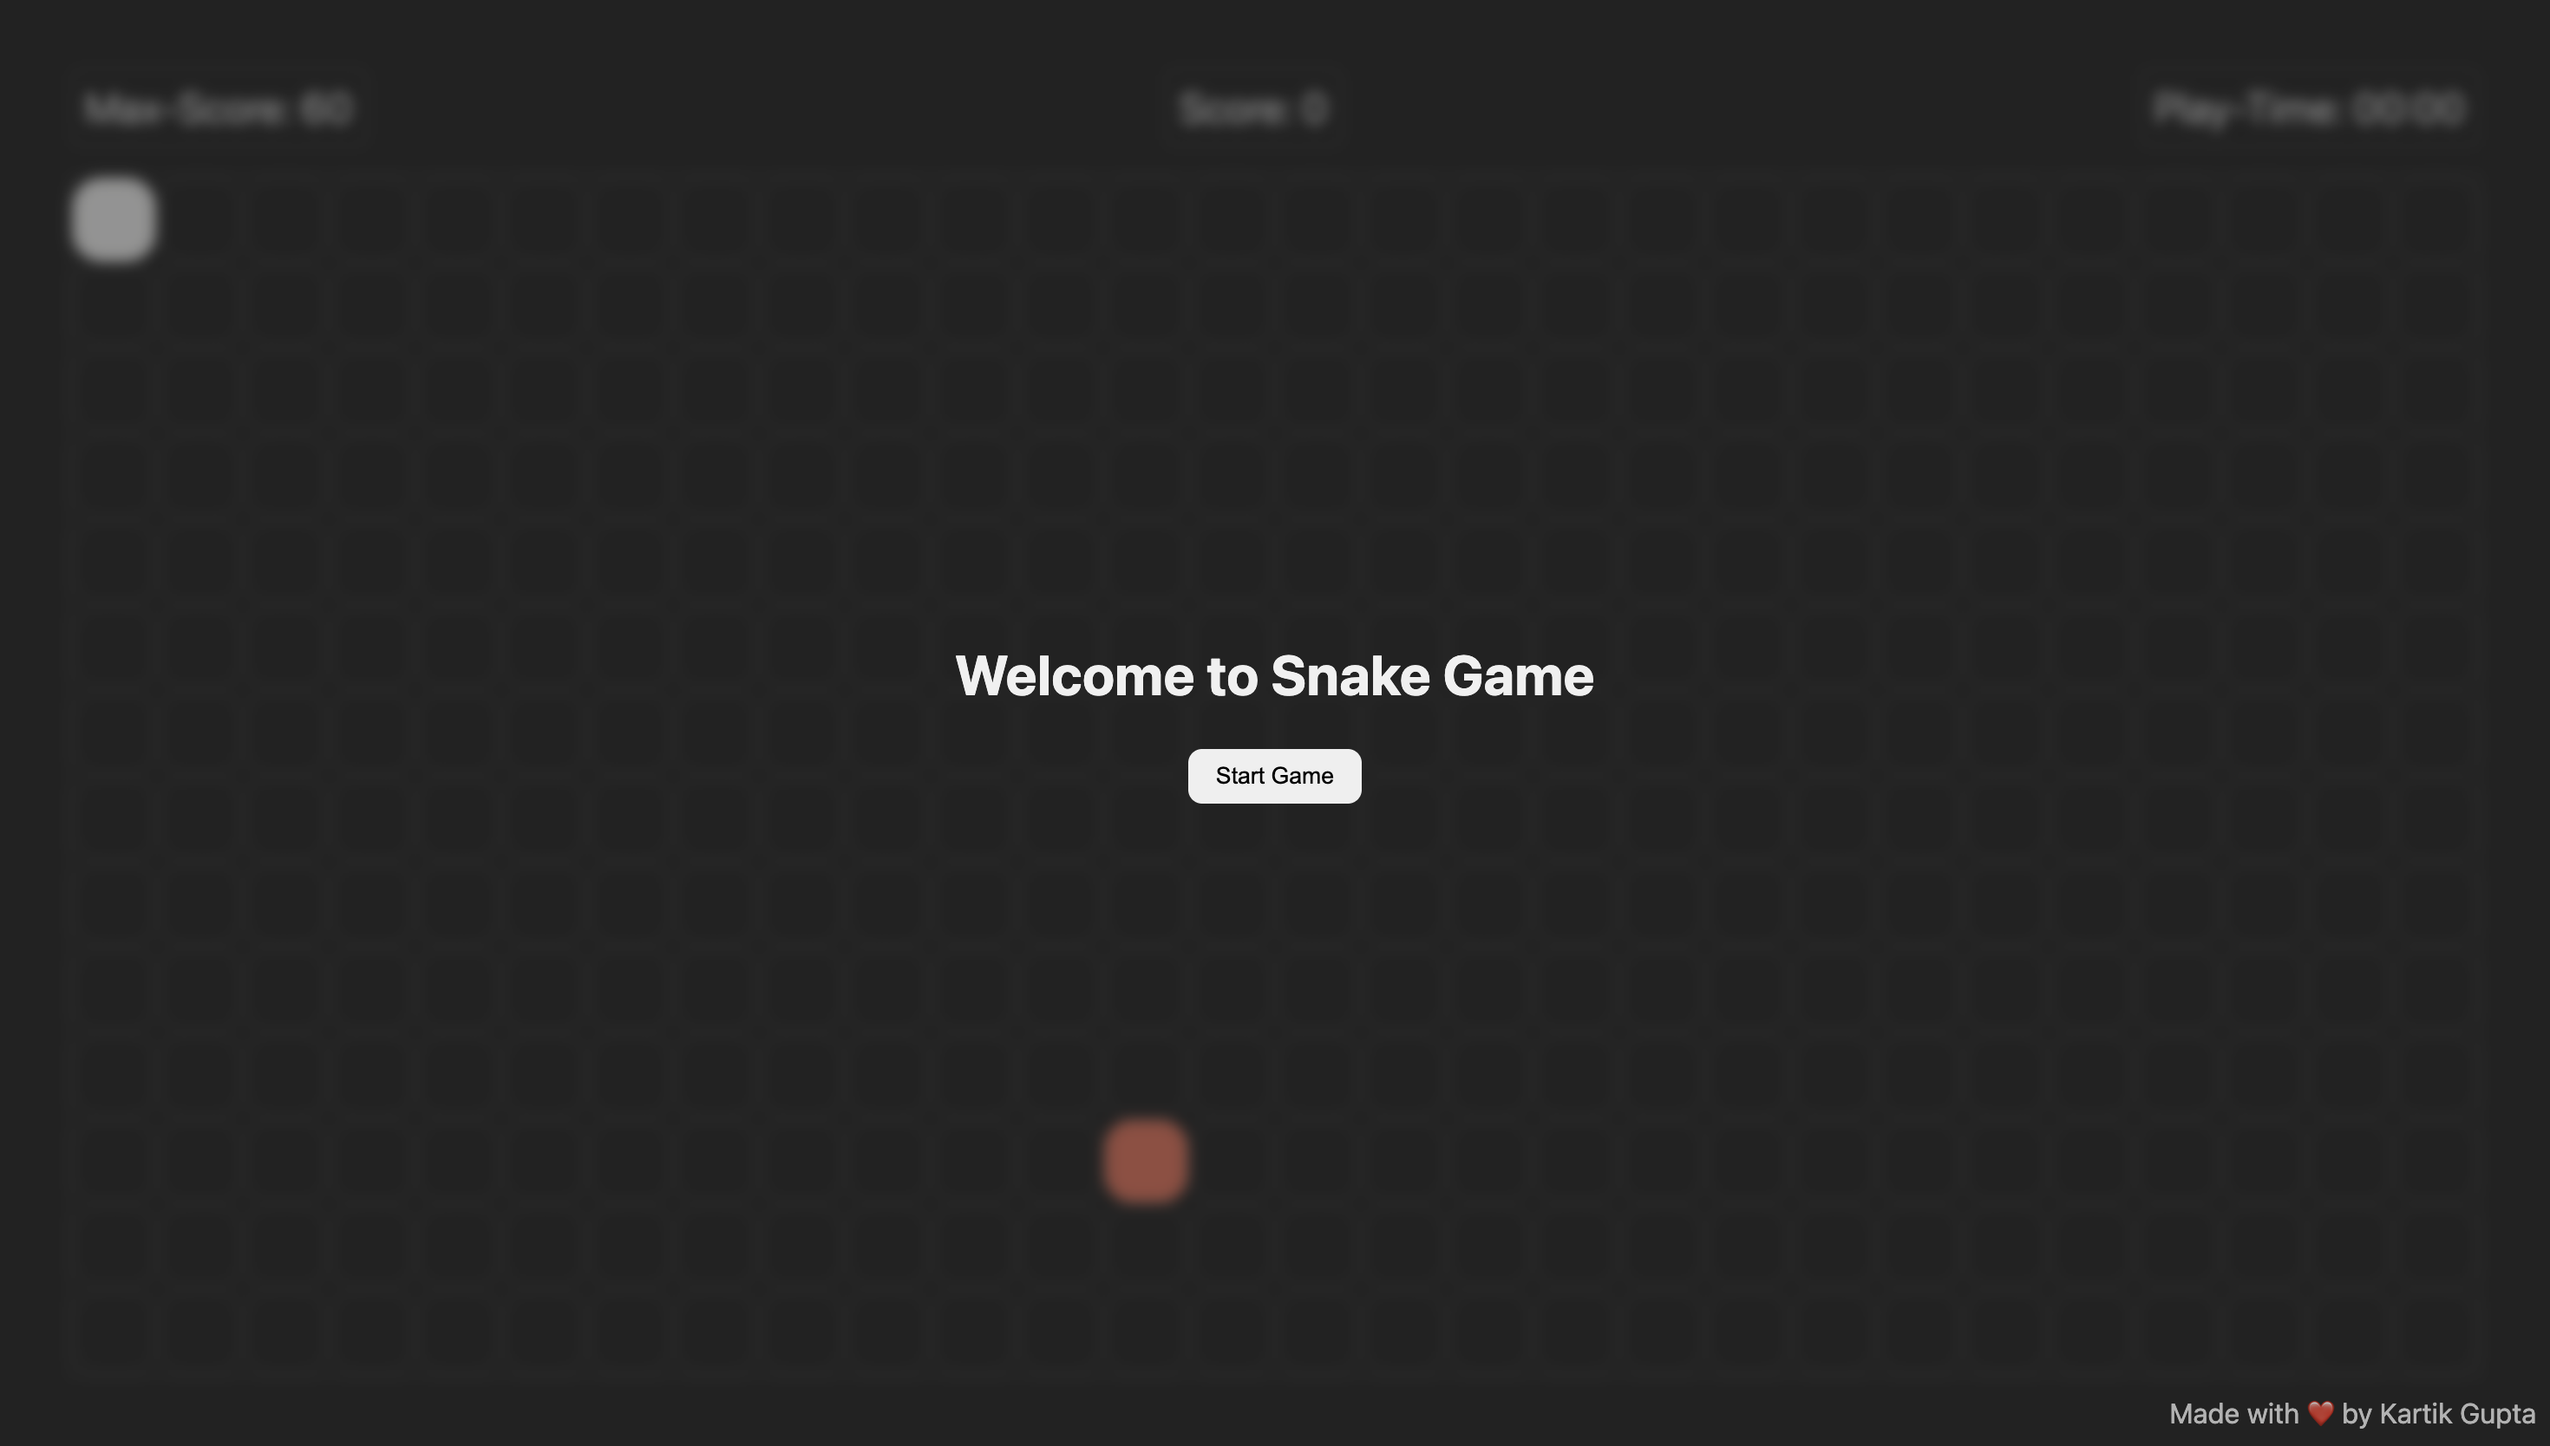
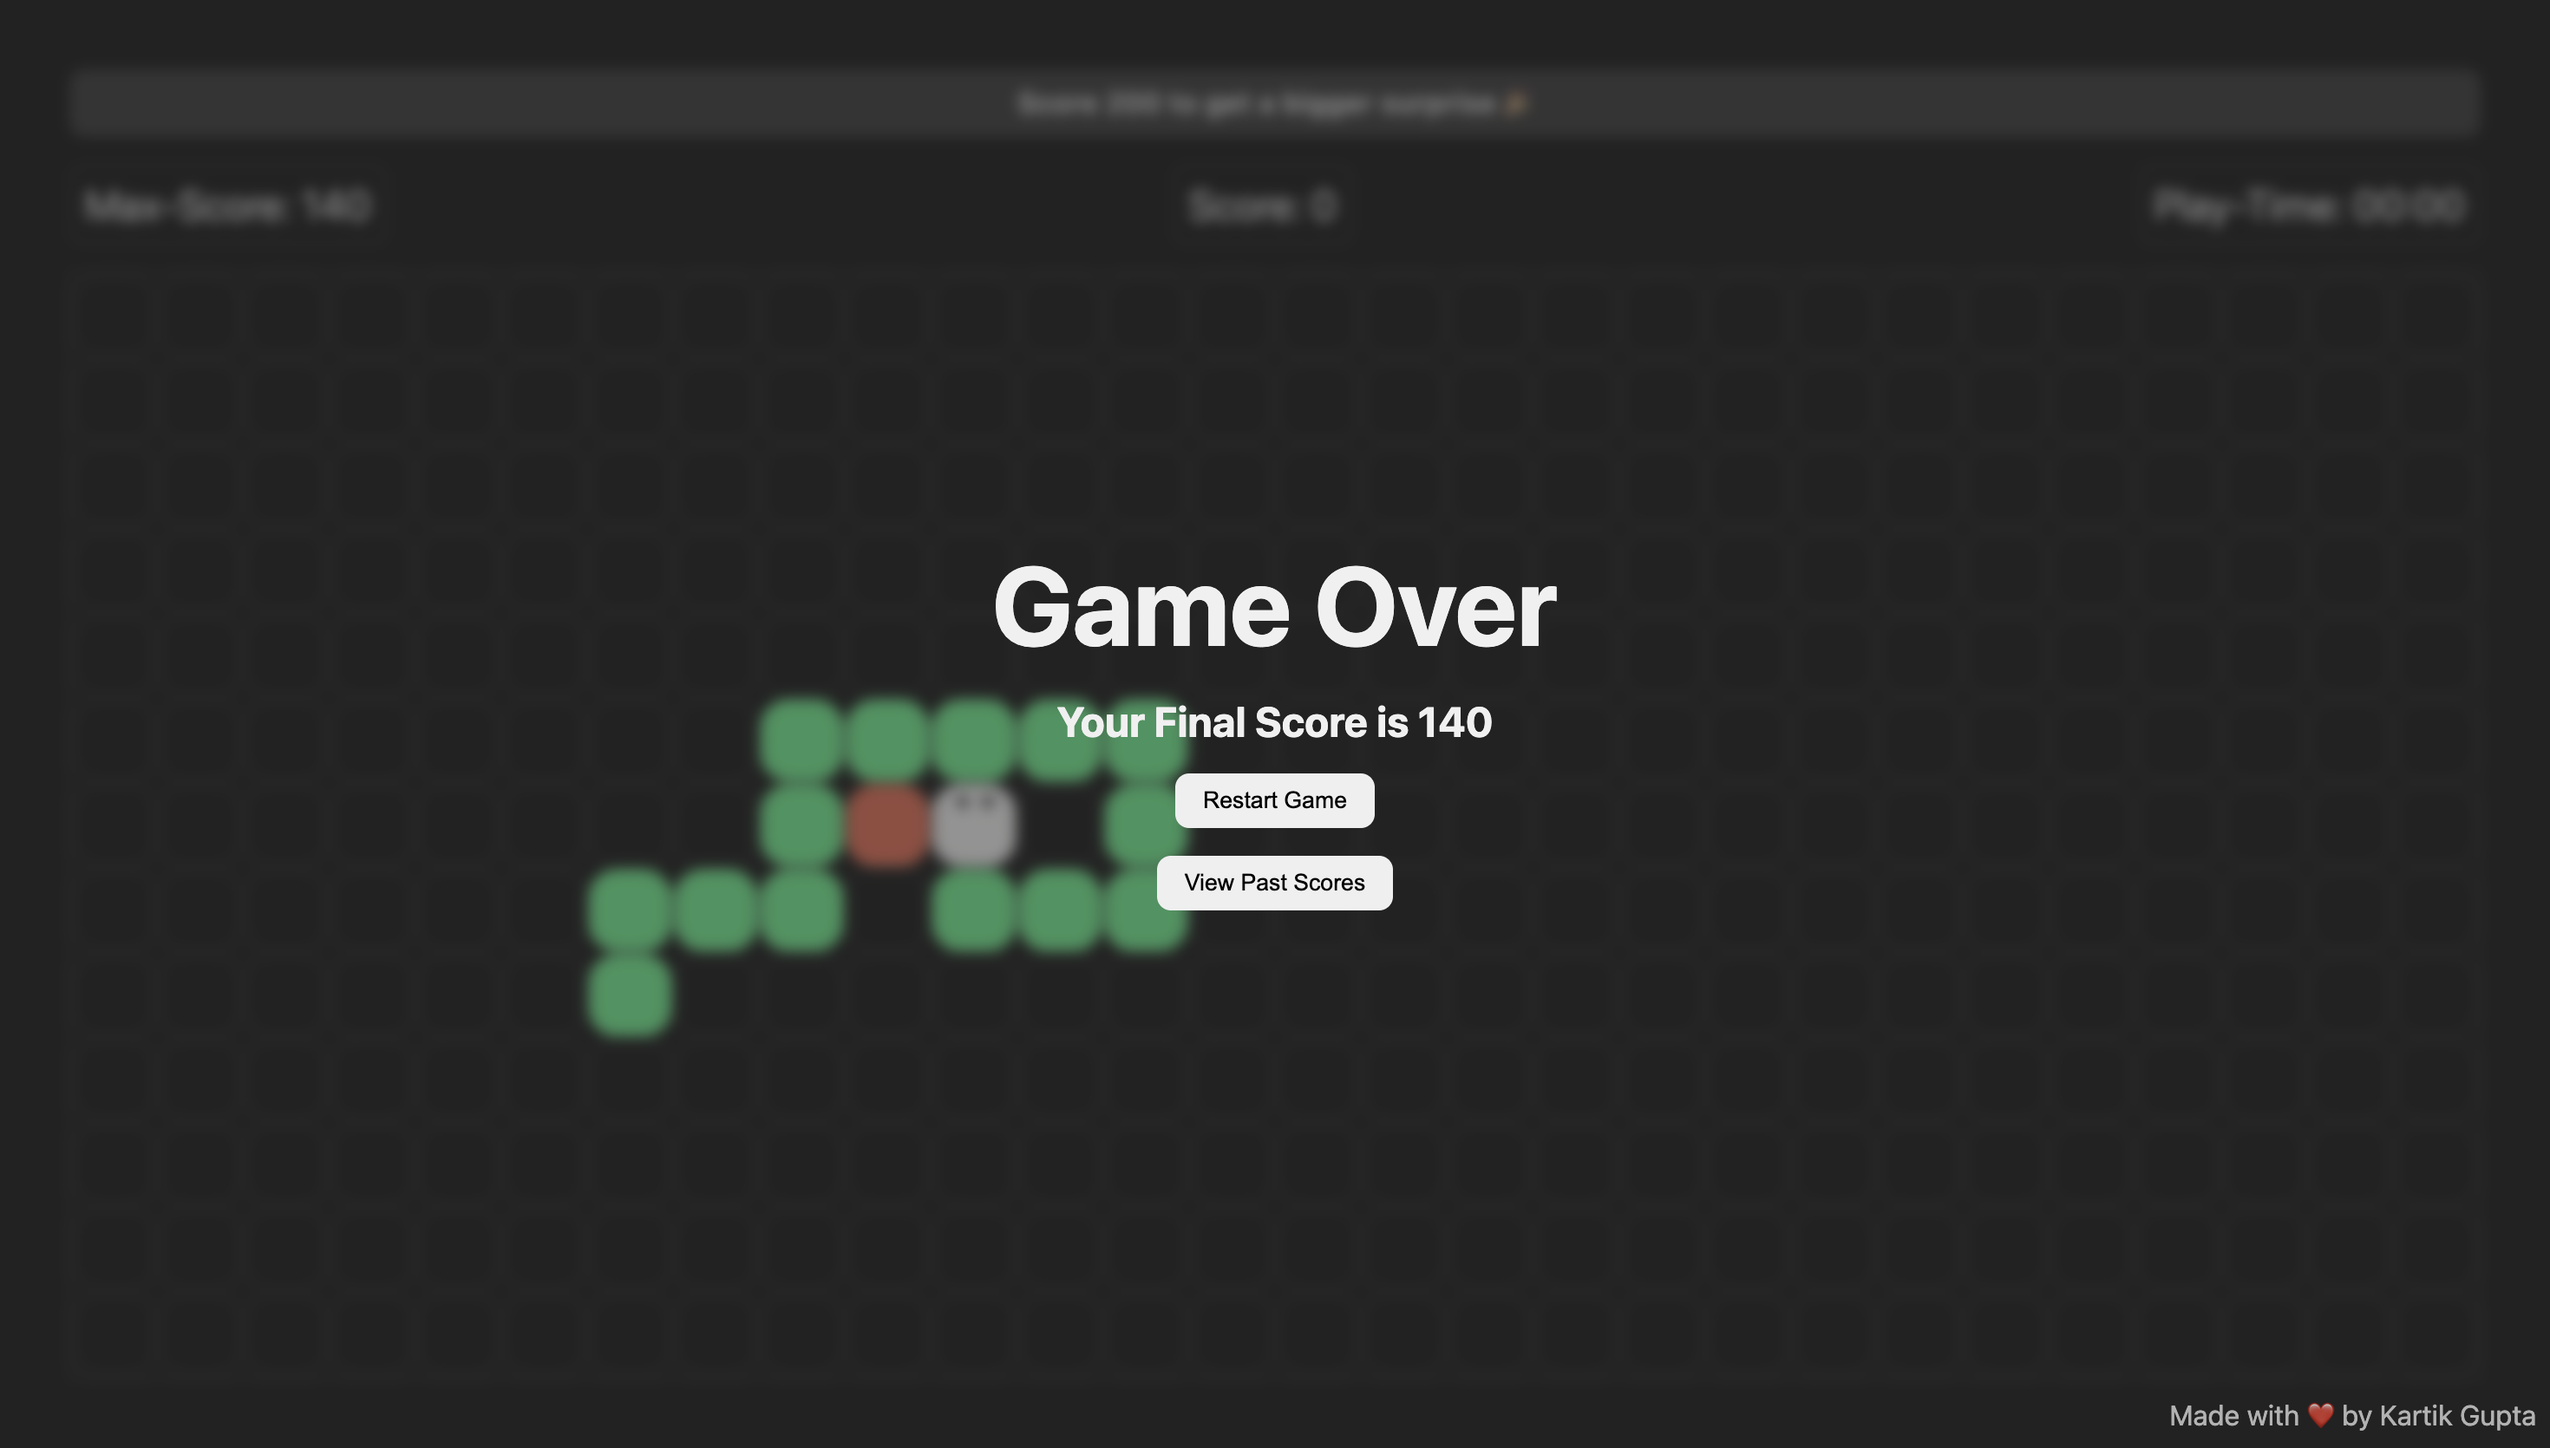
surprise feature,reload bug and updated image

diff --git a/script.js b/script.js
@@ -1,4 +1,5 @@
 let flag = true;
+let isGameRunning = false;
 const board = document.querySelector('.Board-Container');
 const blockHeight = 48;
 const blockWidth = 48;
@@ -7,6 +8,25 @@ let maxScoreValue = localStorage.getItem('maxScore') || 0;
 const score = document.querySelector('.Current-Score-Value');
 const maxScore = document.querySelector('.Max-Score-Value');
 maxScore.innerText = maxScoreValue;
+
+// Surprise message feature!!!
+const surpriseMsg = document.createElement('div');
+surpriseMsg.classList.add('surprise-message');
+board.parentElement.prepend(surpriseMsg);
+
+function updateSurpriseMessage() {
+    if (maxScoreValue < 100) {
+        surpriseMsg.innerText = 'Score 100 to get a surprise 🎁';
+    } else if (maxScoreValue >= 100 && maxScoreValue < 200) {
+        surpriseMsg.innerText = 'Score 200 to get a bigger surprise 🎉';
+    } else if (maxScoreValue >= 200 && maxScoreValue < 300) {
+        surpriseMsg.innerText = 'Score 300 to unlock the final surprise 🚀';
+    } else {
+        surpriseMsg.innerText = 'You have unlocked all surprises! 🏆 Congratulations!!';
+    }
+}
+
+updateSurpriseMessage();
 
 // Reload page when window width changes
 let windowWidth = window.innerWidth;
@@ -31,19 +51,24 @@ for(let i = 0;i<rows;i++){
 
 //starting location of the snake is 0,0
 let snakeLocation = [{x: 0, y: 0}]; // pattern of array is head -----> tail 
-function drawSnake(direction){
+function drawSnake(direction,color){
     Object.values(blocksArr).forEach(function(block){
         block.classList.remove('fill');
-        block.classList.remove('head','up','down','left','right');
+        block.classList.remove('head','up','down','left','right','above-100','above-200','above-300');
     });
     snakeLocation.forEach(function(block, index){
         blocksArr[`${block.x}-${block.y}`].classList.add('fill');
         if(index === 0){
             blocksArr[`${block.x}-${block.y}`].classList.add('head',direction);
         }
+        else{
+            if(color !== ''){
+                blocksArr[`${block.x}-${block.y}`].classList.add(color);
+            }
+        }
     })
 };
-drawSnake();
+drawSnake('right','');
 
 
 //creating food at random location
@@ -88,6 +113,7 @@ let gameInterval = null;
 let x = function(){
     gameInterval = setInterval(function(){
     let head = null;
+    isGameRunning = true;
     if(direction === 'right'){
         head =  {x:(snakeLocation[0].x),y:((snakeLocation[0].y)+1)%cols};
     }
@@ -119,6 +145,7 @@ let x = function(){
             maxScoreValue = scorecount;
             maxScore.innerText = scorecount;
             localStorage.setItem('maxScore', scorecount.toString());
+            updateSurpriseMessage();
         }
         snakeLocation.unshift(head);
         createFood();
@@ -127,8 +154,30 @@ let x = function(){
         snakeLocation.pop();
         snakeLocation.unshift(head);
     }
-    drawSnake(direction);
+    let snakeColorClass = '';
+    if(maxScoreValue>=300){
+        snakeColorClass = 'above-300';
+    }
+    else if(maxScoreValue>200){
+        snakeColorClass = 'above-200';
+    }
+    else if(maxScoreValue>=100){
+        snakeColorClass = 'above-100';
+    }
+    else{
+        snakeColorClass = '';
+    }
+    drawSnake(direction,snakeColorClass);
 },200)};
+
+//if the user reloads the page while game is running
+window.addEventListener('beforeunload', function (event) {
+    if(isGameRunning){
+        addPastScore(scorecount);
+        end();
+        return;
+    }
+});
 
 //timer feature
 //start game feature
@@ -260,6 +309,10 @@ function displayPastScores(){
 
 const clearbtn = document.querySelector('.btn-clear-scores');
 clearbtn.addEventListener('click', function(){
+    maxScoreValue = 0;
+    maxScore.innerText = maxScoreValue;
+    localStorage.setItem('maxScore', '0');
+    updateSurpriseMessage();
     localStorage.removeItem('pastScores');
     pastScore = [];
     displayPastScores();

diff --git a/style.css b/style.css
@@ -13,6 +13,9 @@ html,body{
     --bg-primary-color: #0c0c0c;
     --bg-fill-color: #fdfdfc;
     --bg-food-color: #ff6347;
+    --bg-score-above-100-color:#00ff88;
+    --bg-score-above-200-color:#00b3ff;
+    --bg-score-above-300-color:#ff3b3b;
     /* Text colors */
     --text-primary-color: #f0f0f0;
 
@@ -292,4 +295,26 @@ section{
     gap: var(--space-md);
     flex-wrap: wrap;
     justify-content: center;
+}
+
+.above-100{
+    background-color: var(--bg-score-above-100-color);
+}
+.above-200{
+    background-color: var(--bg-score-above-200-color);
+}
+.above-300{
+    background-color: var(--bg-score-above-300-color);
+}
+
+.surprise-message{
+    text-align: center;
+    font-size: var(--size-sm);
+    font-weight: 600;
+    letter-spacing: 0.5px;
+    padding: var(--space-sm) var(--space-md);
+    border-radius: var(--border-radius-sm);
+    background-color: var(--border-primary-color);
+    color: var(--text-primary-color);
+    border: var(--space-xxxs) solid var(--border-primary-color);
 }
